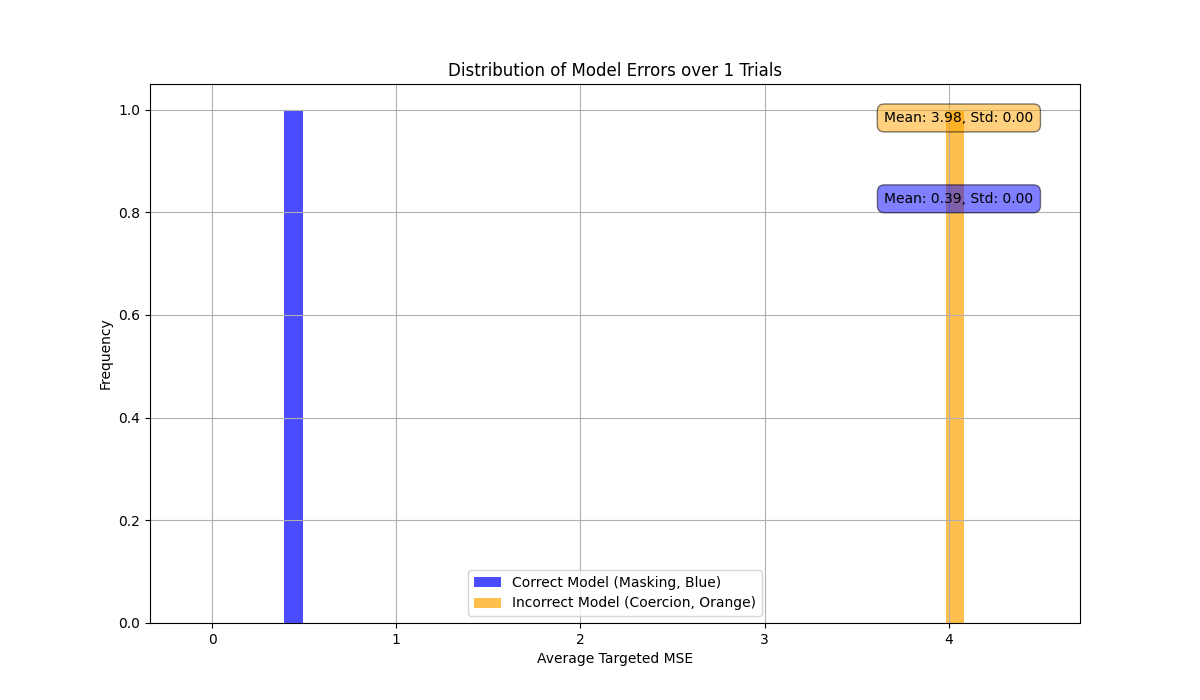
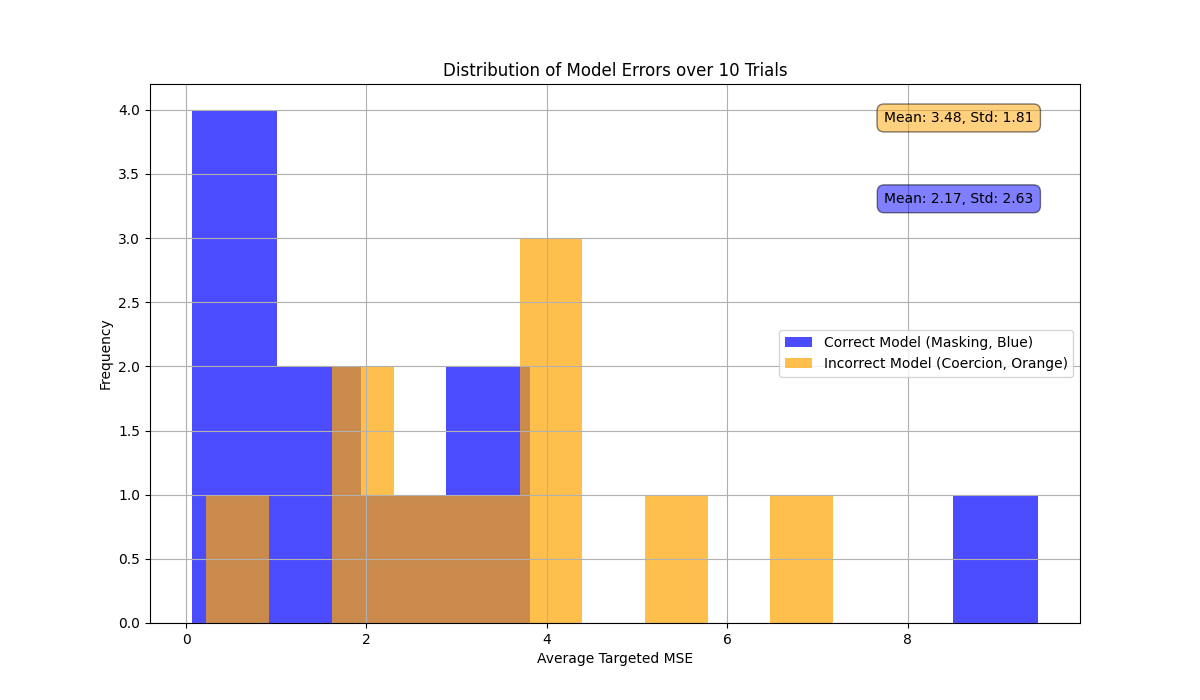
add trials

diff --git a/Demos/Demo2/models2.py b/Demos/Demo2/models2.py
@@ -58,6 +58,7 @@ NUM_LAYERS = 2 # AI: Reverted to larger model
 EPOCHS = 1000 # AI: Increased epochs for better convergence
 LEARNING_RATE = 0.001 # AI: Adjusted learning rate for more stable training
 PATIENCE = 100 # AI: Added for early stopping
+NUM_TRIALS = 10 # AI: Number of trials to run
 
 def prepare_data(vectorised_data: List[List[np.ndarray[Any, Any]]]) -> List[Tuple[torch.Tensor, torch.Tensor, torch.Tensor]]:
     """
@@ -381,98 +382,99 @@ def main():
     """
     AI: Main execution block. Trains and evaluates models for both with and without context data.
     """
-    print("Preparing data...")
-    data_with_context = prepare_data(TRAINING_DATA_WITH_CONTEXT_VECTORISED)
-    data_without_context = prepare_data(TRAINING_DATA_WITHOUT_CONTEXT_VECTORISED)
-    data_with_context_coercion = prepare_data(TRAINING_DATA_WITH_CONTEXT_VECTORISED_COERCION)
+    all_results_wc = {'mse_results': [], 'epochs': [], 'all_learning_curves': [], 'all_evaluations': []}
+    all_results_wcc = {'mse_results': [], 'epochs': [], 'all_learning_curves': [], 'all_evaluations': []}
 
+    for i in range(NUM_TRIALS):
+        print(f"\n--- Starting Trial {i+1}/{NUM_TRIALS} ---")
+        # AI: Set different random seeds for each trial for variability
+        random.seed(42 + i)
+        np.random.seed(42 + i)
+        torch.manual_seed(42 + i)
 
-    # AI: Shuffle and split data for training and validation
-    random.shuffle(data_with_context)
-    split_idx_wc = int(len(data_with_context) * 0.8)
-    train_data_with_context = data_with_context[:split_idx_wc]
-    val_data_with_context = data_with_context[split_idx_wc:]
-    if not train_data_with_context or not val_data_with_context:
-        train_data_with_context = data_with_context
-        val_data_with_context = data_with_context
+        print("Preparing data...")
+        data_with_context = prepare_data(TRAINING_DATA_WITH_CONTEXT_VECTORISED)
+        data_with_context_coercion = prepare_data(TRAINING_DATA_WITH_CONTEXT_VECTORISED_COERCION)
 
-    random.shuffle(data_with_context_coercion)
-    split_idx_wcc = int(len(data_with_context_coercion) * 0.8)
-    train_data_with_context_coercion = data_with_context_coercion[:split_idx_wcc]
-    val_data_with_context_coercion = data_with_context_coercion[split_idx_wcc:]
-    if not train_data_with_context_coercion or not val_data_with_context_coercion:
-        train_data_with_context_coercion = data_with_context_coercion
-        val_data_with_context_coercion = data_with_context_coercion
+        # AI: Shuffle and split data for training and validation
+        random.shuffle(data_with_context)
+        split_idx_wc = int(len(data_with_context) * 0.8)
+        train_data_with_context = data_with_context[:split_idx_wc]
+        val_data_with_context = data_with_context[split_idx_wc:]
+        if not train_data_with_context or not val_data_with_context:
+            train_data_with_context = val_data_with_context = data_with_context
 
-    # --- WITH CONTEXT ---
-    # performance should be perfect
-    print("\nTraining model WITH context...")
-    model_with_context = TransformerPredictor(INPUT_SIZE, D_MODEL, NHEAD, NUM_LAYERS, NUM_EVENT_TYPES, DATA_VECTOR_SIZE)
-    history_wc, best_epoch_wc = train_model(model_with_context, train_data_with_context, val_data_with_context)
-    print("Evaluating model WITH context...")
-    mse_with_context, metrics_wc, evals_wc = evaluate_model(model_with_context, data_with_context)
-    print("-" * 40)
+        random.shuffle(data_with_context_coercion)
+        split_idx_wcc = int(len(data_with_context_coercion) * 0.8)
+        train_data_with_context_coercion = data_with_context_coercion[:split_idx_wcc]
+        val_data_with_context_coercion = data_with_context_coercion[split_idx_wcc:]
+        if not train_data_with_context_coercion or not val_data_with_context_coercion:
+            train_data_with_context_coercion = val_data_with_context_coercion = data_with_context_coercion
 
-    # # --- WITHOUT CONTEXT ---
-    # # performance should be ok
-    # print("\nTraining model WITHOUT context...")
-    # model_without_context = TransformerPredictor(INPUT_SIZE, D_MODEL, NHEAD, NUM_LAYERS, NUM_EVENT_TYPES, DATA_VECTOR_SIZE)
-    # train_model(model_without_context, data_without_context)
-    # print("Evaluating model WITHOUT context...")
-    # evaluate_model(model_without_context, data_without_context)
-    # print("-" * 40)
+        # --- WITH CONTEXT ---
+        print("\nTraining model WITH context...")
+        model_with_context = TransformerPredictor(INPUT_SIZE, D_MODEL, NHEAD, NUM_LAYERS, NUM_EVENT_TYPES, DATA_VECTOR_SIZE)
+        history_wc, best_epoch_wc = train_model(model_with_context, train_data_with_context, val_data_with_context)
+        print("Evaluating model WITH context...")
+        mse_with_context, metrics_wc, evals_wc = evaluate_model(model_with_context, data_with_context)
+        all_results_wc['mse_results'].append(mse_with_context)
+        all_results_wc['epochs'].append(best_epoch_wc)
+        all_results_wc['all_learning_curves'].append(history_wc)
+        all_results_wc['all_evaluations'].append(evals_wc)
+        print("-" * 40)
 
+        # --- WITH CONTEXT BUT WITHOUT BACKPROP NONE VALUES ---
+        print("\nTraining model WITHOUT BACKPROP NONE VALUES...")
+        model_without_backprop_none_values = TransformerPredictor(INPUT_SIZE, D_MODEL, NHEAD, NUM_LAYERS, NUM_EVENT_TYPES, DATA_VECTOR_SIZE)
+        history_wcc, best_epoch_wcc = train_model(model_without_backprop_none_values, train_data_with_context_coercion, val_data_with_context_coercion)
+        print("Evaluating model WITHOUT BACKPROP NONE VALUES...")
+        mse_without_backprop, metrics_wcc, evals_wcc = evaluate_model(model_without_backprop_none_values, data_with_context_coercion)
+        all_results_wcc['mse_results'].append(mse_without_backprop)
+        all_results_wcc['epochs'].append(best_epoch_wcc)
+        all_results_wcc['all_learning_curves'].append(history_wcc)
+        all_results_wcc['all_evaluations'].append(evals_wcc)
+        print("-" * 40)
 
-    # --- WITH CONTEXT BUT WITHOUT BACKPROP NONE VALUES ---
-    # performance should be bad
-    print("\nTraining model WITHOUT BACKPROP NONE VALUES...")
-    model_without_backprop_none_values = TransformerPredictor(INPUT_SIZE, D_MODEL, NHEAD, NUM_LAYERS, NUM_EVENT_TYPES, DATA_VECTOR_SIZE)
-    history_wcc, best_epoch_wcc = train_model(model_without_backprop_none_values, train_data_with_context_coercion, val_data_with_context_coercion)
-    print("Evaluating model WITHOUT BACKPROP NONE VALUES...")
-    mse_without_backprop, metrics_wcc, evals_wcc = evaluate_model(model_without_backprop_none_values, data_with_context_coercion)
-    print("-" * 40)
-
-    # --- Save Results ---
-    results = {
-        'num_trials': 1,
+    # --- Aggregate and Save Results ---
+    final_results = {
+        'num_trials': NUM_TRIALS,
         'correct_model': {
-            'mse_results': [mse_with_context],
-            'mean_mse': mse_with_context,
-            'std_mse': 0,
-            'epochs': [best_epoch_wc],
-            'all_learning_curves': [history_wc],
-            'all_evaluations': [evals_wc],
-            'final_metrics': metrics_wc
+            'mse_results': all_results_wc['mse_results'],
+            'mean_mse': np.mean(all_results_wc['mse_results']),
+            'std_mse': np.std(all_results_wc['mse_results']),
+            'epochs': all_results_wc['epochs'],
+            'all_learning_curves': all_results_wc['all_learning_curves'],
+            'all_evaluations': all_results_wc['all_evaluations'],
         },
         'incorrect_model': {
-            'mse_results': [mse_without_backprop],
-            'mean_mse': mse_without_backprop,
-            'std_mse': 0,
-            'epochs': [best_epoch_wcc],
-            'all_learning_curves': [history_wcc],
-            'all_evaluations': [evals_wcc],
-            'final_metrics': metrics_wcc
+            'mse_results': all_results_wcc['mse_results'],
+            'mean_mse': np.mean(all_results_wcc['mse_results']),
+            'std_mse': np.std(all_results_wcc['mse_results']),
+            'epochs': all_results_wcc['epochs'],
+            'all_learning_curves': all_results_wcc['all_learning_curves'],
+            'all_evaluations': all_results_wcc['all_evaluations'],
         }
     }
 
     results_path = os.path.join(os.path.dirname(__file__), 'results.npy')
-    np.save(results_path, results)
-    print(f"\nResults saved to {results_path}")
-
+    np.save(results_path, final_results)
+    print(f"\nAggregated results over {NUM_TRIALS} trials saved to {results_path}")
 
     # --- FINAL CHECK ---
-    print("\n--- Final Quantitative Check ---")
-    print(f"Correct Model (with masking) Targeted MSE:   {mse_with_context:.6f}")
-    print(f"Incorrect Model (coerced to 0) Targeted MSE: {mse_without_backprop:.6f}")
+    mean_mse_wc = final_results['correct_model']['mean_mse']
+    mean_mse_wcc = final_results['incorrect_model']['mean_mse']
+    print("\n--- Final Quantitative Check (Averaged over all trials) ---")
+    print(f"Correct Model (with masking) Mean Targeted MSE:   {mean_mse_wc:.6f}")
+    print(f"Incorrect Model (coerced to 0) Mean Targeted MSE: {mean_mse_wcc:.6f}")
 
-    if np.isnan(mse_with_context) or np.isnan(mse_without_backprop):
+    if np.isnan(mean_mse_wc) or np.isnan(mean_mse_wcc):
         print("\nCHECK SKIPPED: Could not retrieve MSE values for comparison.")
-    elif mse_without_backprop > mse_with_context:
-        print("\nSUCCESS: The model trained with incorrect zero-coercion has a higher regression error.")
-        print("This quantitatively proves that masking is the superior method.")
+    elif mean_mse_wcc > mean_mse_wc:
+        print("\nSUCCESS: The model trained with incorrect zero-coercion has a higher average regression error.")
+        print("This quantitatively proves that masking is the superior method across multiple trials.")
     else:
-        print("\nFAILURE: The targeted MSE check did not show the expected difference.")
-        print(f"Difference: {mse_with_context - mse_without_backprop:.8f}. This may be due to model parameters, data simplicity, or random seed.")
+        print("\nFAILURE: The targeted MSE check did not show the expected average difference.")
+        print(f"Difference: {mean_mse_wc - mean_mse_wcc:.8f}. This may be due to model parameters, data simplicity, or random seeds.")
 
 
 
